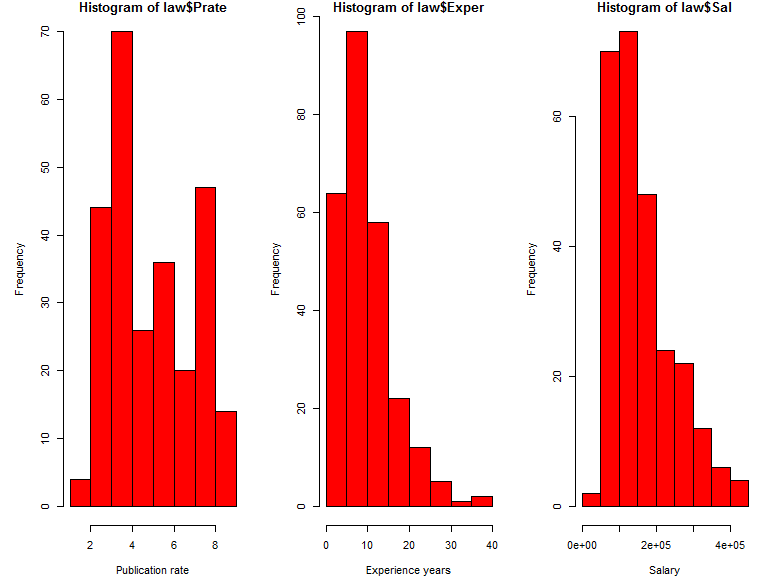
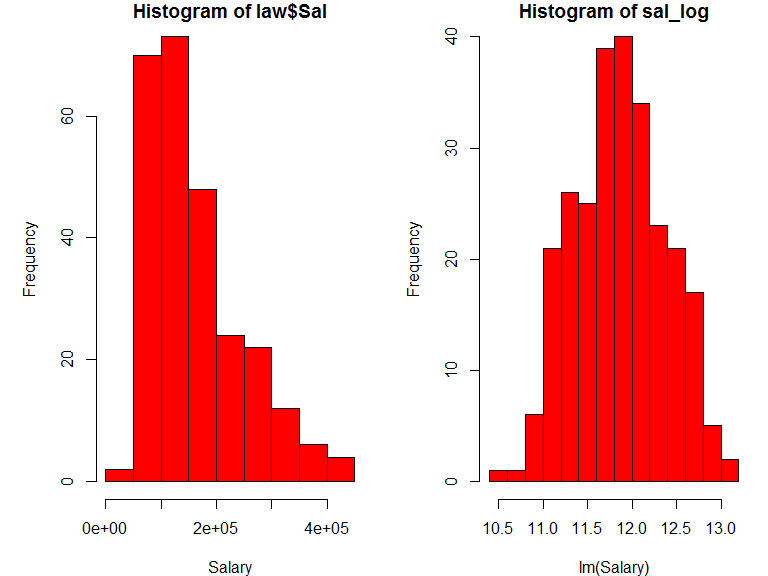
correct mistakes

diff --git a/m_project.md b/m_project.md
@@ -116,111 +116,99 @@ cor(law_df[ ,c(5,6,8)]) %>%
 <img src="m_project_files/figure-gfm/unnamed-chunk-2-2.png" width="90%" />
 
 ``` r
-par(mfrow = c(1,3))
-hist(law$Prate, xlab = "Publication rate", freq = T, col = 2)
-hist(law$Exper, xlab = "Experience years", freq = T, col = 2)
+sal_log = log(law$Sal)
+
+par(mfrow = c(1,2))
+
 hist(law$Sal, xlab = "Salary", freq = T, col = 2)
+
+hist(sal_log, xlab = "lm(Salary)", freq = T, col = 2)
 ```
 
 <img src="m_project_files/figure-gfm/unnamed-chunk-2-3.png" width="90%" />
 
 ``` r
-exper_log = log(law$Exper)
-sal_log = log(law$Sal)
-
-par(mfrow = c(1,3))
-hist(law$Prate, xlab = "Publication rate", freq = T, col = 2)
-hist(exper_log, xlab = "lm(Experience years)", freq = T, col = 2)
-hist(sal_log, xlab = "lm(Salary)", freq = T, col = 2)
-```
-
-<img src="m_project_files/figure-gfm/unnamed-chunk-2-4.png" width="90%" />
-
-``` r
 law_trans = law_df %>%
   mutate(
-    exper_log = log(law$Exper),
     sal_log = log(law$Sal)
   ) %>% 
-  dplyr::select(-Exper, -Sal)
+  dplyr::select(-Sal)
 
 
-mult_fit = lm(sal_log ~ Dept + Gender + Clin + Cert + Prate + Rank + exper_log, data = law_trans)
+mult_fit = lm(sal_log ~ Dept + Gender + Clin + Cert + Prate + Rank + Exper, data = law_trans)
 step(mult_fit, direction = 'backward')
 ```
 
-Start: AIC=-1027.55 sal\_log \~ Dept + Gender + Clin + Cert + Prate +
-Rank + exper\_log
+Start: AIC=-1038.3 sal\_log \~ Dept + Gender + Clin + Cert + Prate +
+Rank + Exper
 
 ``` 
-        Df Sum of Sq     RSS      AIC
+     Df Sum of Sq     RSS      AIC
 ```
 
-  - Gender 1 0.0147 4.6233 -1028.72
-  - Prate 1 0.0341 4.6427 -1027.63 <none> 4.6086 -1027.55
-  - Clin 1 0.3029 4.9115 -1012.94
-  - Rank 2 1.0240 5.6326 -979.18
-  - Cert 1 1.1817 5.7903 -969.97
-  - exper\_log 1 1.5524 6.1610 -953.78
-  - Dept 5 8.6840 13.2926 -761.08
+  - Gender 1 0.0166 4.4393 -1039.32
+  - Prate 1 0.0279 4.4506 -1038.66 <none> 4.4226 -1038.30
+  - Clin 1 0.2858 4.7085 -1023.96
+  - Rank 2 1.2646 5.6872 -976.66
+  - Cert 1 1.4402 5.8628 -966.73
+  - Exper 1 1.7384 6.1610 -953.78
+  - Dept 5 9.1712 13.5938 -755.23
 
-Step: AIC=-1028.72 sal\_log \~ Dept + Clin + Cert + Prate + Rank +
-exper\_log
+Step: AIC=-1039.32 sal\_log \~ Dept + Clin + Cert + Prate + Rank + Exper
 
 ``` 
-        Df Sum of Sq     RSS      AIC
+    Df Sum of Sq     RSS      AIC
 ```
 
-<none> 4.6233 -1028.72 - Prate 1 0.0494 4.6727 -1027.95 - Clin 1 0.2882
-4.9115 -1014.94 - Rank 2 1.1018 5.7251 -976.93 - Cert 1 1.1882 5.8114
--971.03 - exper\_log 1 1.6604 6.2837 -950.63 - Dept 5 8.8220 13.4453
--760.10
+<none> 4.4393 -1039.32 - Prate 1 0.0421 4.4814 -1038.86 - Clin 1 0.2695
+4.7088 -1025.94 - Rank 2 1.3973 5.8366 -971.90 - Cert 1 1.4549 5.8942
+-967.33 - Exper 1 1.8444 6.2837 -950.63 - Dept 5 9.3583 13.7976 -753.35
 
 Call: lm(formula = sal\_log \~ Dept + Clin + Cert + Prate + Rank +
-exper\_log, data = law\_trans)
+Exper, data = law\_trans)
 
 Coefficients: (Intercept) DeptBiochemistry/Molecular Biology  
-12.06878 -0.85843  
+12.26603 -0.86511  
 DeptPhysiology DeptGenetics  
-\-1.02545 -0.70945  
+\-1.04178 -0.69957  
 DeptPediatrics DeptMedicine  
-\-0.70864 -0.36604  
+\-0.72362 -0.37481  
 ClinPrimarily clinical emphasis CertBoard certified  
-0.16163 0.17600  
+0.15640 0.19168  
 Prate RankAssistant  
-\-0.02807 -0.21275  
-RankAssociate exper\_log  
-\-0.10469
-0.18455
+\-0.02586 -0.22477  
+RankAssociate Exper  
+\-0.08811
+0.01832
 
 ``` r
-mult_fit = lm(sal_log ~ Dept + Clin + Cert + Prate + Rank + exper_log, data = law_trans)
+mult_fit = lm(sal_log ~ Dept + Clin + Cert + Prate + Rank + Exper, data = law_trans)
 summary(mult_fit)
 ```
 
 Call: lm(formula = sal\_log \~ Dept + Clin + Cert + Prate + Rank +
-exper\_log, data = law\_trans)
+Exper, data = law\_trans)
 
-Residuals: Min 1Q Median 3Q Max -0.32090 -0.08351 -0.01059 0.07524
-1.00546
+Residuals: Min 1Q Median 3Q Max -0.34228 -0.08136 -0.01292 0.08004
+0.90901
 
-Coefficients: Estimate Std. Error t value Pr(\>|t|) (Intercept) 12.06878
-0.09438 127.876 \< 2e-16 DeptBiochemistry/Molecular Biology -0.85843
-0.06265 -13.702 \< 2e-16 DeptPhysiology -1.02545 0.06239 -16.436 \<
-2e-16 DeptGenetics -0.70945 0.05510 -12.876 \< 2e-16 DeptPediatrics
--0.70864 0.03624 -19.554 \< 2e-16 DeptMedicine -0.36604 0.03175 -11.528
-\< 2e-16 ClinPrimarily clinical emphasis 0.16163 0.04102 3.940 0.000106
-CertBoard certified 0.17600 0.02200 7.999 4.73e-14 Prate -0.02807
-0.01721 -1.631 0.104163 RankAssistant -0.21275 0.02766 -7.690 3.40e-13
-RankAssociate -0.10469 0.02374 -4.410 1.54e-05 exper\_log 0.18455
-0.01952 9.457 \< 2e-16
+Coefficients: Estimate Std. Error t value Pr(\>|t|) (Intercept)
+12.266034 0.085607 143.283 \< 2e-16 DeptBiochemistry/Molecular Biology
+-0.865105 0.061350 -14.101 \< 2e-16 DeptPhysiology -1.041780 0.060909
+-17.104 \< 2e-16 DeptGenetics -0.699570 0.054045 -12.944 \< 2e-16
+DeptPediatrics -0.723620 0.035213 -20.549 \< 2e-16 DeptMedicine
+-0.374811 0.031005 -12.089 \< 2e-16 ClinPrimarily clinical emphasis
+0.156395 0.040226 3.888 0.000130 CertBoard certified 0.191677 0.021218
+9.034 \< 2e-16 Prate -0.025859 0.016831 -1.536 0.125711 RankAssistant
+-0.224767 0.025719 -8.739 3.53e-16 RankAssociate -0.088105 0.023618
+-3.730 0.000237 Exper 0.018316 0.001801 10.171 \< 2e-16
 
 (Intercept) *** DeptBiochemistry/Molecular Biology *** DeptPhysiology
 *** DeptGenetics *** DeptPediatrics *** DeptMedicine *** ClinPrimarily
 clinical emphasis *** CertBoard certified *** Prate  
-RankAssistant *** RankAssociate *** exper\_log \*\*\* — Signif. codes: 0
+RankAssistant *** RankAssociate *** Exper \*\*\* — Signif. codes: 0
 ‘***’ 0.001 ’**’ 0.01 ’*’ 0.05 ‘.’ 0.1 ’ ’ 1
 
-Residual standard error: 0.1363 on 249 degrees of freedom Multiple
-R-squared: 0.9313, Adjusted R-squared: 0.9283 F-statistic: 307 on 11 and
-249 DF, p-value: \< 2.2e-16
+Residual standard error: 0.1335 on 249 degrees of freedom Multiple
+R-squared: 0.9341, Adjusted R-squared: 0.9311 F-statistic: 320.6 on 11
+and 249 DF, p-value: \< 2.2e-16
